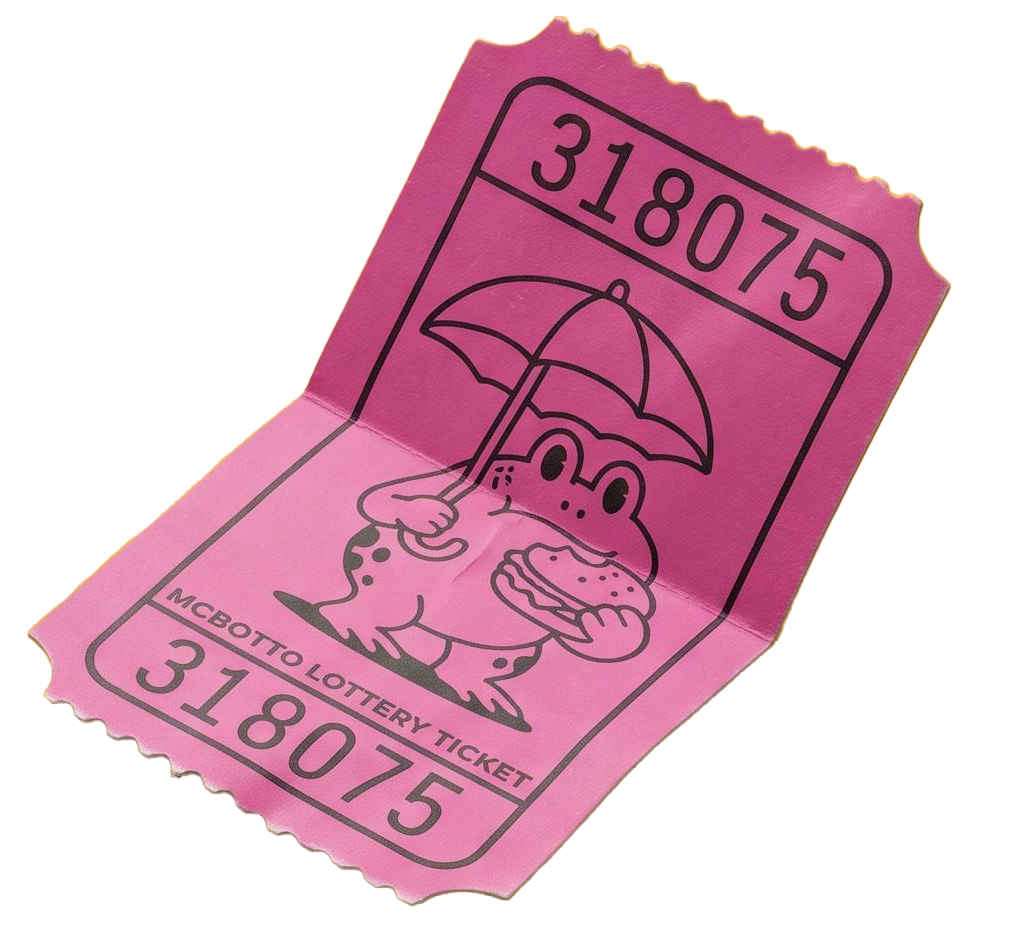
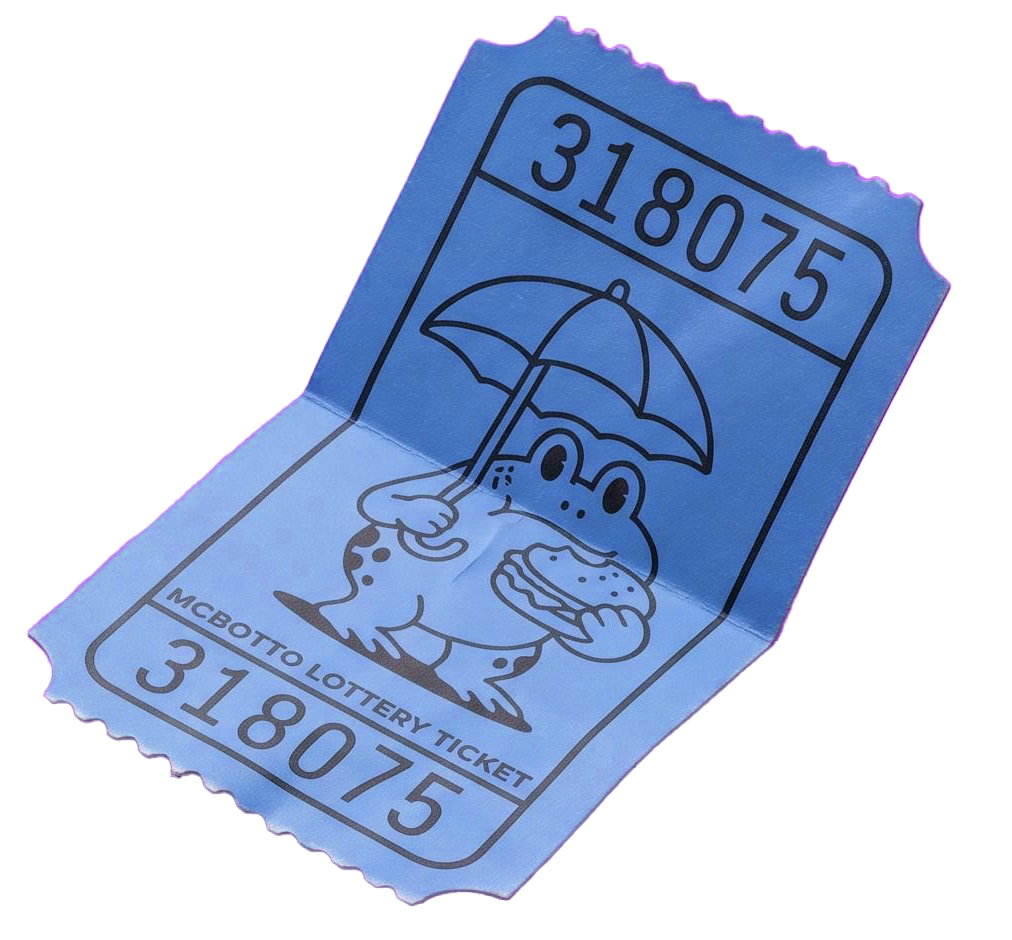
Assets comp, marquees uniformes, header oculto en loader, ajustes varios

diff --git a/src/main.ts b/src/main.ts
@@ -23,15 +23,21 @@ if (!root) {
 
 const debug = new URLSearchParams(window.location.search).has('debug');
 
+// Items y separador compartidos por el marquee superior y la barra inferior.
+// Usamos non-breaking spaces (\u00a0) para que HTML no colapse los espacios
+// alrededor del guion, y un em-dash "—" como caracter del separador.
+const MARQUEE_ITEMS = [
+  'New collection',
+  'Get your toy at NFC Lisbon',
+  'June 4, 5, 6',
+  'Limited edition',
+  'McBotto',
+];
+const MARQUEE_SEPARATOR = '\u00a0\u00a0\u2014\u00a0\u00a0';
+
 mountMarquee(document.body, {
-  items: [
-    'New collection',
-    'Get your toy at NFC Lisbon',
-    'June 4, 5, 6',
-    'Limited edition',
-    'McBotto',
-  ],
-  separator: '  -  ',
+  items: MARQUEE_ITEMS,
+  separator: MARQUEE_SEPARATOR,
   durationSeconds: 22,
 });
 
@@ -83,17 +89,17 @@ const redeemWrapper = document.createElement('div');
 redeemWrapper.className = 'redeem-wrapper';
 
 const ticketLeft = document.createElement('img');
-ticketLeft.src = '/assets/imagenes/ticket_web_v2.png';
+ticketLeft.src = '/assets/imagenes/ticket_web_v2_comp.png';
 ticketLeft.alt = '';
 ticketLeft.className = 'redeem-ticket redeem-ticket--left';
 
 const ticketRight = document.createElement('img');
-ticketRight.src = '/assets/imagenes/ticket_web_v3.png';
+ticketRight.src = '/assets/imagenes/ticket_web_v3_comp.png';
 ticketRight.alt = '';
 ticketRight.className = 'redeem-ticket redeem-ticket--right';
 
 const ticketLeft2 = document.createElement('img');
-ticketLeft2.src = '/assets/imagenes/ticket_web_v4.png';
+ticketLeft2.src = '/assets/imagenes/ticket_web_v4_comp.png';
 ticketLeft2.alt = '';
 ticketLeft2.className = 'redeem-ticket redeem-ticket--left2';
 
@@ -109,7 +115,6 @@ yellowSection.appendChild(tvVideo);
 root.appendChild(yellowSection);
 
 // Barra animada justo en el límite amarillo/rojo, idéntica al marquee de arriba
-const footerBarItems = ['New collection', 'Get your toy at NFC Lisbon', 'June 4, 5, 6', 'Limited edition', 'McBotto'];
 const footerBar = document.createElement('div');
 footerBar.className = 'footer-bar';
 const footerBarViewport = document.createElement('div');
@@ -119,7 +124,9 @@ footerBar.style.setProperty('--marquee-copies', String(copies));
 for (let i = 0; i < copies; i++) {
   const group = document.createElement('span');
   group.className = 'footer-bar__group';
-  group.innerHTML = footerBarItems.map(item => `<span class="footer-bar__item">${item}</span>`).join('');
+  group.innerHTML = MARQUEE_ITEMS
+    .map(item => `<span class="footer-bar__item">${item}${MARQUEE_SEPARATOR}</span>`)
+    .join('');
   footerBarViewport.appendChild(group);
 }
 footerBar.appendChild(footerBarViewport);
@@ -140,7 +147,7 @@ root.appendChild(footer);
 const interroganteFloat = document.createElement('div');
 interroganteFloat.className = 'interrogante-float';
 const interroganteImg = document.createElement('img');
-interroganteImg.src = '/assets/imagenes/interrogante1.png';
+interroganteImg.src = '/assets/imagenes/interrogante1_comp.png';
 interroganteImg.alt = '';
 interroganteFloat.appendChild(interroganteImg);
 const scrubSection = root.querySelector('.scrub-section') as HTMLElement | null;

diff --git a/src/sections/loader.ts b/src/sections/loader.ts
@@ -74,4 +74,16 @@ export function mountLoader(
   // Montamos en document.body (no en #app) para que z-index:9999 compita
   // directamente con el marquee y el audio-toggle que también están en body.
   document.body.prepend(overlay);
+
+  // Marca body para ocultar marquee/audio-toggle/site-label mientras dura el loader.
+  document.body.classList.add('loader-active');
+
+  // Cuando el overlay se elimine, quitamos la clase para revelar el header.
+  const observer = new MutationObserver(() => {
+    if (!document.body.contains(overlay)) {
+      document.body.classList.remove('loader-active');
+      observer.disconnect();
+    }
+  });
+  observer.observe(document.body, { childList: true });
 }

diff --git a/src/data/hero.layers.mobile.ts b/src/data/hero.layers.mobile.ts
@@ -35,7 +35,7 @@ export const heroMobile: StageComposition = {
     {
       id: 'ketchup',
       kind: 'img',
-      src: '/assets/imagenes/ketchup_0.png',
+      src: '/assets/imagenes/ketchup_0_comp.png',
       alt: 'Ketchup McBotto',
       psd: { x: 20, y: 60, w: 760, h: 1560 },
       z: 1,
@@ -82,7 +82,7 @@ export const heroMobile: StageComposition = {
         {
           id: '30units',
           kind: 'img',
-          src: '/assets/imagenes/30_units.png',
+          src: '/assets/imagenes/30_units_comp.png',
           alt: '30 units',
           psd: { x: 1430, y: 1300, w: 400, h: 400 },
           z: 3,
@@ -126,7 +126,7 @@ export const heroMobile: StageComposition = {
     {
       id: 'ketchup3',
       kind: 'img',
-      src: '/assets/imagenes/ketchup3.png',
+      src: '/assets/imagenes/ketchup3_comp.png',
       alt: '',
       psd: { x: 700, y: -250, w: 560, h: 1141 },
       z: 1,
@@ -136,7 +136,7 @@ export const heroMobile: StageComposition = {
     {
       id: 'ketchup-right',
       kind: 'img',
-      src: '/assets/imagenes/ketchup_1.png',
+      src: '/assets/imagenes/ketchup_1_comp.png',
       alt: '',
       psd: { x: 720, y: 2450, w: 560, h: 1141 },
       z: 1,

diff --git a/src/data/hero.layers.ts b/src/data/hero.layers.ts
@@ -49,7 +49,7 @@ export const heroDesktop: StageComposition = {
     {
       id: 'ketchup',
       kind: 'img',
-      src: '/assets/imagenes/ketchup_0.png',
+      src: '/assets/imagenes/ketchup_0_comp.png',
       alt: 'Ketchup McBotto',
       psd: { x: -670, y: -490, w: 1122, h: 2285 },
       z: 1,
@@ -98,7 +98,7 @@ export const heroDesktop: StageComposition = {
         {
           id: '30units',
           kind: 'img',
-          src: '/assets/imagenes/30_units.png',
+          src: '/assets/imagenes/30_units_comp.png',
           alt: '30 units',
           psd: { x: 1430, y: 1310, w: 500, h: 500 },
           z: 3,
@@ -146,7 +146,7 @@ export const heroDesktop: StageComposition = {
     {
       id: 'ketchup3',
       kind: 'img',
-      src: '/assets/imagenes/ketchup3.png',
+      src: '/assets/imagenes/ketchup3_comp.png',
       alt: '',
       psd: { x: 1520, y: -350, w: 900, h: 1834 },
       z: 1,
@@ -157,7 +157,7 @@ export const heroDesktop: StageComposition = {
     {
       id: 'ketchup-right',
       kind: 'img',
-      src: '/assets/imagenes/ketchup_1.png',
+      src: '/assets/imagenes/ketchup_1_comp.png',
       alt: '',
       psd: { x: 1200, y: 2400, w: 1440, h: 2934 },
       z: 1,

diff --git a/src/styles/loader.css b/src/styles/loader.css
@@ -26,3 +26,11 @@
   object-fit: cover;
   display: block;
 }
+
+/* Mientras el loader está activo, oculta marquee/audio-toggle/site-label
+ * para que nada del header asome encima del video o del fundido amarillo. */
+body.loader-active .marquee,
+body.loader-active .audio-toggle,
+body.loader-active .site-label {
+  visibility: hidden;
+}

diff --git a/src/sections/scroll-anim-section.ts b/src/sections/scroll-anim-section.ts
@@ -71,12 +71,12 @@ export function mountScrollAnimSection(root: HTMLElement): void {
   // Manchas de mostaza a los lados de la bandeja
   const mostazaLeft = document.createElement('img');
   mostazaLeft.className = 'scrub-mostaza scrub-mostaza--left';
-  mostazaLeft.src = '/assets/imagenes/mostaza_1.png';
+  mostazaLeft.src = '/assets/imagenes/mostaza_1_comp.png';
   mostazaLeft.alt = '';
 
   const mostazaRight = document.createElement('img');
   mostazaRight.className = 'scrub-mostaza scrub-mostaza--right';
-  mostazaRight.src = '/assets/imagenes/mostaza_2.png';
+  mostazaRight.src = '/assets/imagenes/mostaza_2_comp.png';
   mostazaRight.alt = '';
 
   videoContainer.appendChild(mostazaLeft);

diff --git a/src/styles/hero.css b/src/styles/hero.css
@@ -117,7 +117,7 @@
 }
 
 .footer-bar__item {
-  padding-inline: 1.4ch;
+  font-weight: 700;
 }
 
 /* ── Footer rojo con logo ─────────────────────────────────────────── */
@@ -158,7 +158,7 @@
 .redeem-ticket {
   position: absolute;
   height: auto;
-  filter: hue-rotate(230deg) saturate(1.5) drop-shadow(3px 5px 8px rgba(0,0,0,0.3));
+  filter: drop-shadow(3px 5px 8px rgba(0,0,0,0.3));
 }
 
 .redeem-ticket--left {

diff --git a/src/styles/scroll-anim-section.css b/src/styles/scroll-anim-section.css
@@ -99,7 +99,7 @@
 }
 
 .scrub-event-info p + p {
-  margin-top: -0.2em;
+  margin-top: -0.6em;
 }
 
 .scrub-event-text {
@@ -150,7 +150,7 @@
   color: var(--color-yellow);
   font-size: clamp(1.5rem, 3vw, 3.5rem);
   text-align: center;
-  margin-top: 0.3em;
+  margin-top: 1em;
   line-height: 1;
 }
 

diff --git a/src/styles/marquee.css b/src/styles/marquee.css
@@ -37,7 +37,6 @@
 }
 
 .marquee__item {
-  padding-inline: 1.4ch;
   font-weight: 700;
 }
 